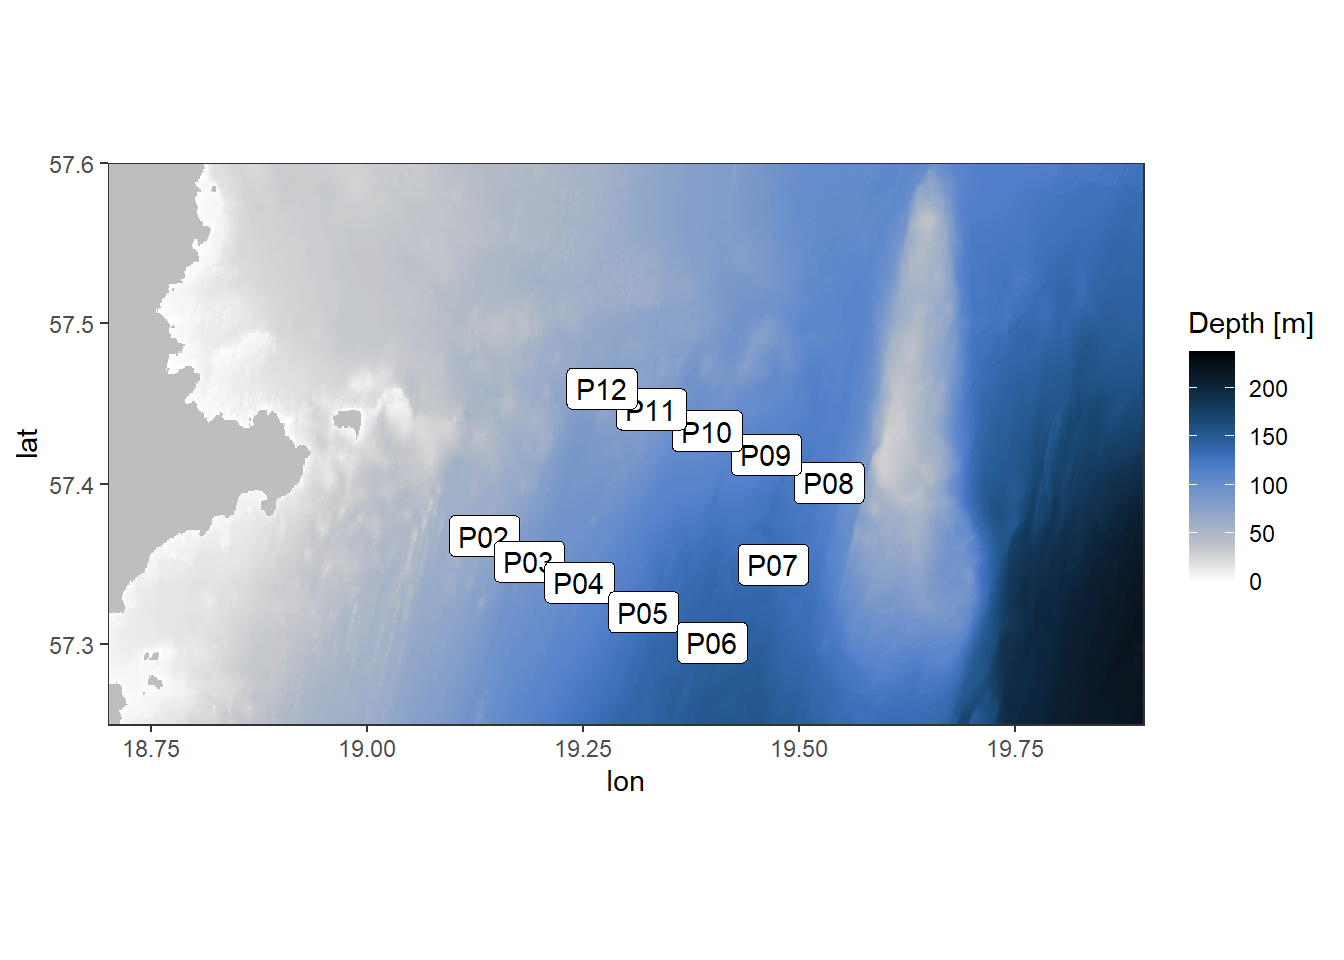
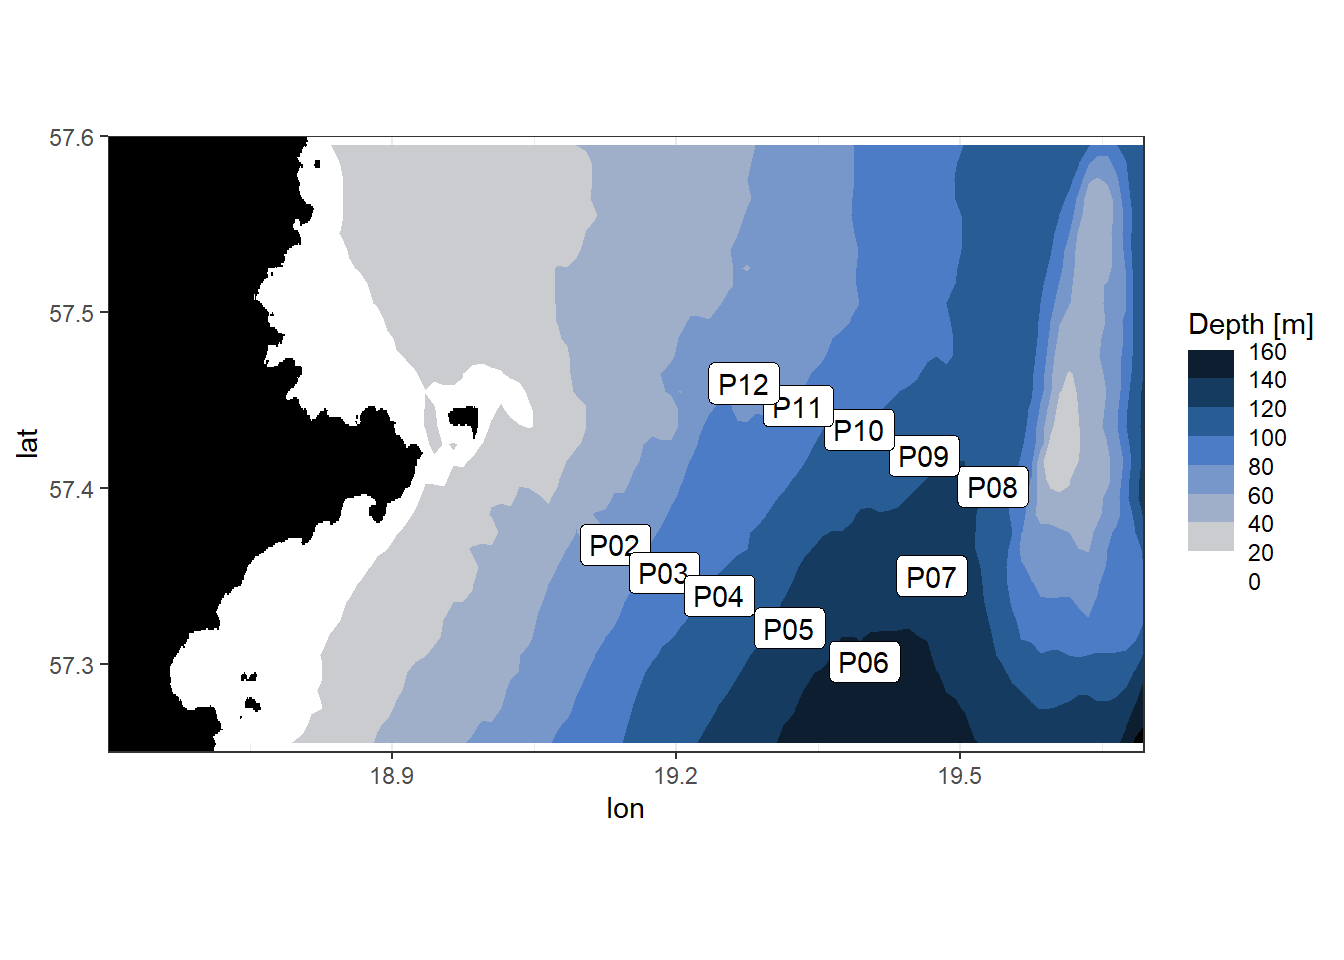
Build site.

diff --git a/docs/CT_dynamics.html b/docs/CT_dynamics.html
@@ -555,16 +555,16 @@ This reproducible <a href="http://rmarkdown.rstudio.com">R Markdown</a> analysis
 <div class="panel panel-default">
 <div class="panel-heading">
 <p class="panel-title">
-<a data-toggle="collapse" data-parent="#workflowr-checks" href="#strongRepositoryversionstrongahrefhttpsgithubcomjensdanielmuellerBloomSailtree86b08338ce4b5cf30f94b7de6151b246f55633edtargetblank86b0833a"> <span class="glyphicon glyphicon-ok text-success" aria-hidden="true"></span> <strong>Repository version:</strong> <a href="https://github.com/jens-daniel-mueller/BloomSail/tree/86b08338ce4b5cf30f94b7de6151b246f55633ed" target="_blank">86b0833</a> </a>
+<a data-toggle="collapse" data-parent="#workflowr-checks" href="#strongRepositoryversionstrongahrefhttpsgithubcomjensdanielmuellerBloomSailtree13436a3a40979b2ba31ce1361c0268ede87699eatargetblank13436a3a"> <span class="glyphicon glyphicon-ok text-success" aria-hidden="true"></span> <strong>Repository version:</strong> <a href="https://github.com/jens-daniel-mueller/BloomSail/tree/13436a3a40979b2ba31ce1361c0268ede87699ea" target="_blank">13436a3</a> </a>
 </p>
 </div>
[2 lines of base64/hex data omitted]
 <div class="panel-body">
 <p>
 Great! You are using Git for version control. Tracking code development and connecting the code version to the results is critical for reproducibility.
 </p>
 <p>
-The results in this page were generated with repository version <a href="https://github.com/jens-daniel-mueller/BloomSail/tree/86b08338ce4b5cf30f94b7de6151b246f55633ed" target="_blank">86b0833</a>. See the <em>Past versions</em> tab to see a history of the changes made to the R Markdown and HTML files.
+The results in this page were generated with repository version <a href="https://github.com/jens-daniel-mueller/BloomSail/tree/13436a3a40979b2ba31ce1361c0268ede87699ea" target="_blank">13436a3</a>. See the <em>Past versions</em> tab to see a history of the changes made to the R Markdown and HTML files.
 </p>
 <p>
 Note that you need to be careful to ensure that all relevant files for the analysis have been committed to Git prior to generating the results (you can use <code>wflow_publish</code> or <code>wflow_git_commit</code>). workflowr only checks the R Markdown file, but you know if there are other scripts or data files that it depends on. Below is the status of the Git repository when the results were generated:
@@ -619,6 +619,40 @@ Message
 </tr>
 </thead>
 <tbody>
+<tr>
+<td>
+Rmd
+</td>
+<td>
+<a href="https://github.com/jens-daniel-mueller/BloomSail/blob/13436a3a40979b2ba31ce1361c0268ede87699ea/analysis/CT_dynamics.Rmd" target="_blank">13436a3</a>
+</td>
+<td>
+jens-daniel-mueller
+</td>
+<td>
+2020-04-16
+</td>
+<td>
+worked on map
+</td>
+</tr>
+<tr>
+<td>
+html
+</td>
+<td>
+<a href="https://rawcdn.githack.com/jens-daniel-mueller/BloomSail/5e8f8e1b77e1b7e3f546e5d44f37de9003b914bd/docs/CT_dynamics.html" target="_blank">5e8f8e1</a>
+</td>
+<td>
+jens-daniel-mueller
+</td>
+<td>
+2020-04-16
+</td>
+<td>
+Build site.
+</td>
+</tr>
 <tr>
 <td>
 Rmd
@@ -2378,13 +2412,27 @@ ts_profiles &lt;- inner_join(cruise_dates, ts_profiles)</code></pre>
 </div>
 <div id="station-map" class="section level2">
 <h2><span class="header-section-number">1.2</span> Station map</h2>
-<pre class="r"><code>map &lt;- read_csv(here::here(&quot;data/Maps&quot;,&quot;Bathymetry_Gotland_east_small.csv&quot;))
+<pre class="r"><code>lat_lo &lt;- 57.25
+lat_hi &lt;- 57.6
+lon_lo &lt;- 18.6
+lon_hi &lt;- 19.7
 
-# ggplot()+
-#   geom_contour_fill(data=map, aes(x=lon, y=lat, z=-elev), na.fill = TRUE)+
-#   coord_quickmap(expand = 0, xlim = c(18.7, 19.9), ylim = c(57.25,57.6))+
-#   theme_bw()+
-#   theme(legend.position=&quot;bottom&quot;)
+map &lt;- read_csv(here::here(&quot;data/Maps&quot;,&quot;Bathymetry_Gotland_east_small.csv&quot;)) %&gt;% 
+  filter(lat &lt; lat_hi, lat &gt; lat_lo,
+         lon &lt; lon_hi, lon &gt; lon_lo)
+
+map_low_res &lt;- map %&gt;% 
+  mutate(lat = cut(lat,
+                   breaks = seq(57,58,0.01),
+                   labels = seq(57.005,57.995,0.01)),
+         lon = cut(lon,
+                   breaks = seq(18,22,0.01),
+                   labels = seq(18.005,21.995,0.01))) %&gt;% 
+  group_by(lat,lon) %&gt;% 
+  summarise_all(mean, na.rm=TRUE) %&gt;% 
+  ungroup() %&gt;% 
+  mutate(lat = as.numeric(as.character(lat)),
+         lon = as.numeric(as.character(lon)))
 
 ts_profiles %&gt;% 
   group_by(station) %&gt;% 
@@ -2392,19 +2440,25 @@ ts_profiles %&gt;%
             lon = mean(lon)) %&gt;% 
   ungroup() %&gt;% 
   ggplot()+
-  geom_raster(data=map, aes(lon, lat, fill=-elev))+
-  scale_fill_scico(palette = &quot;oslo&quot;, na.value = &quot;grey&quot;, 
-                   name=&quot;Depth [m]&quot;, direction = -1)+
+  geom_contour_fill(data = map_low_res,
+                    aes(x=lon, y=lat, z=-elev),
+                    na.fill = TRUE,
+                    breaks = seq(0,300,20))+
+  geom_raster(data=map %&gt;% filter(is.na(elev)),
+              aes(lon, lat), fill=&quot;black&quot;)+
   geom_label(aes(lon, lat, label=station))+
-  coord_quickmap(expand = 0, xlim = c(18.7, 19.9), ylim = c(57.25,57.6))+
-  theme_bw()</code></pre>
+  coord_quickmap(expand = 0)+
+  scale_fill_scico(palette = &quot;oslo&quot;, na.value = &quot;grey&quot;,
+                   name=&quot;Depth [m]&quot;, direction = -1,
+                   breaks = seq(0,160,20),
+                   guide = &quot;colorstrip&quot;)</code></pre>
 <div class="figure" style="text-align: center">
 <img src="figure/CT_dynamics.Rmd/map-1.png" alt="Location of stations sampled between the east coast of Gotland and Gotland deep." width="672" />
 <p class="caption">
 Location of stations sampled between the east coast of Gotland and Gotland deep.
 </p>
 </div>
-<pre class="r"><code>rm(map)</code></pre>
+<pre class="r"><code>rm(map, map_low_res, lat_hi, lat_lo, lon_hi, lon_lo)</code></pre>
 </div>
 <div id="data-coverage" class="section level2">
 <h2><span class="header-section-number">1.3</span> Data coverage</h2>
